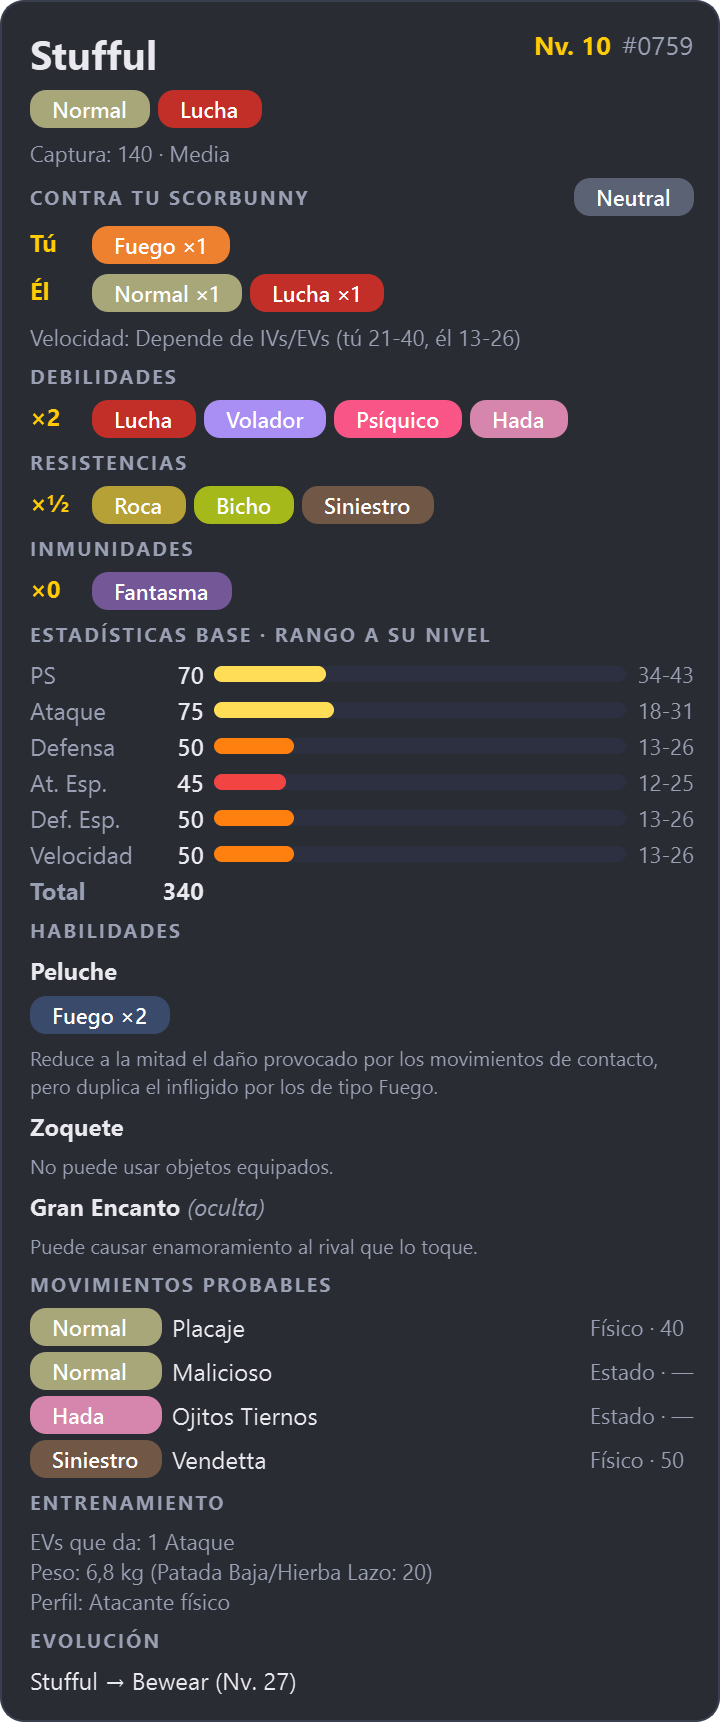
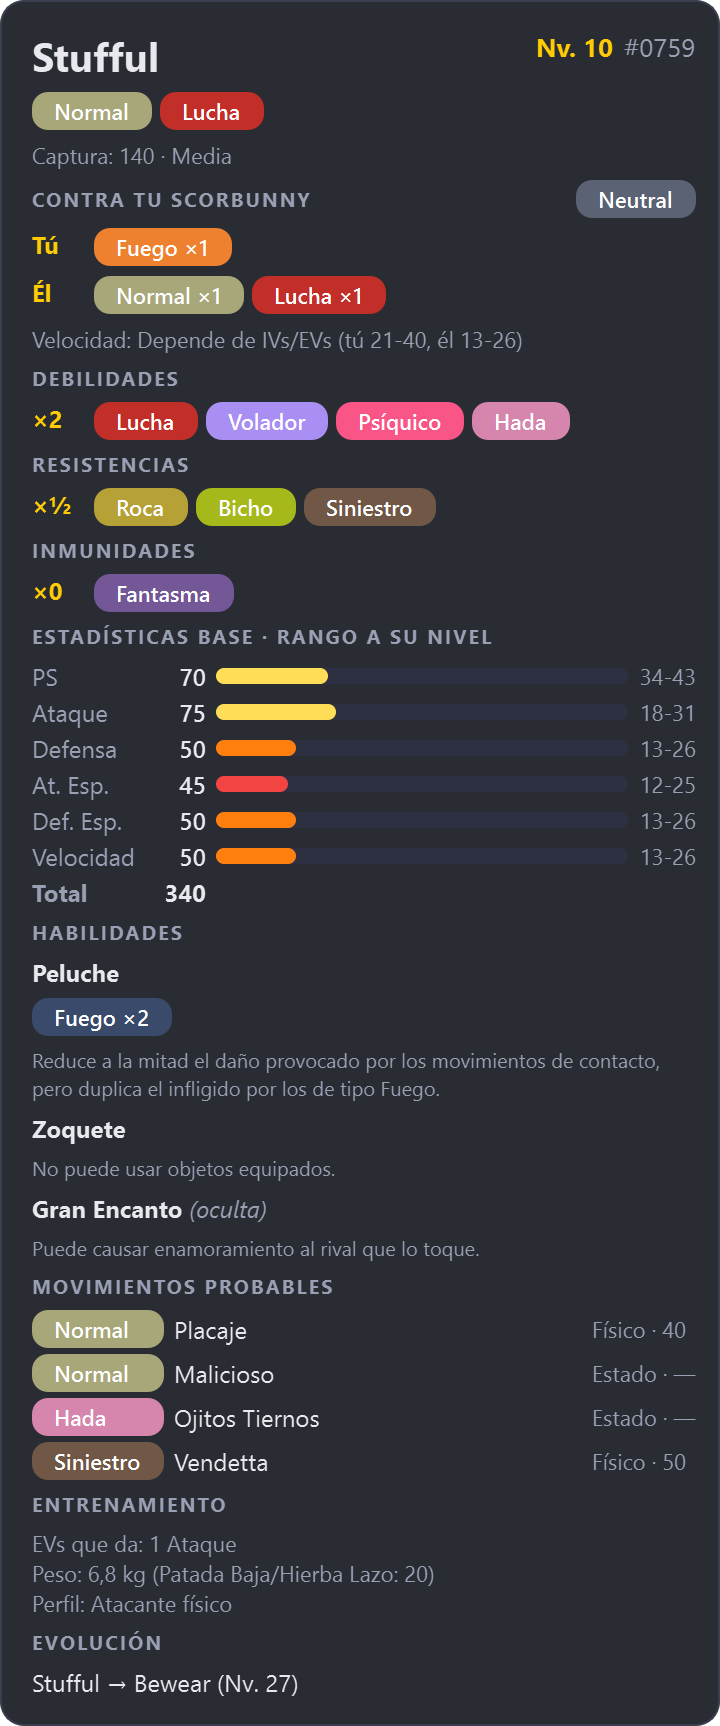
fix: la ficha se ajusta a la pantalla y no recorta textos
Cambio OpenSpec fix-overlay-fit-screen (detectado por la CI en un runner
con pantalla de 720 px):
- Área desplazable cuando la ficha es más alta que la pantalla
- Altura por tarjeta según su ancho; test con escala ×2 en proceso aparte
- Capturas de la web completas y medidas del HTML sincronizadas

diff --git a/site/index.html b/site/index.html
@@ -48,7 +48,7 @@
            data-es="Gratis y de código abierto · Windows 10/11 (64 bits) · Sin permisos de administrador">Free and open source · Windows 10/11 (64-bit) · No admin rights needed</p>
       </div>
       <figure class="hero-shot">
-        <img src="assets/card-normal.png" width="300" height="316"
+        <img src="assets/card-normal.png" width="300" height="318"
              alt="BattleLens card for Stufful: types, catch rate, matchup against your Scorbunny, weaknesses and evolution"
              data-en-alt="BattleLens card for Stufful: types, catch rate, matchup against your Scorbunny, weaknesses and evolution"
              data-es-alt="Ficha de BattleLens de Stufful: tipos, ratio de captura, comparativa contra tu Scorbunny, debilidades y evolución">
@@ -92,7 +92,7 @@
             <li data-en="Weaknesses, immunities and evolution" data-es="Debilidades, inmunidades y evolución">Weaknesses, immunities and evolution</li>
             <li data-en="Advantage / disadvantage against your Pokémon" data-es="Ventaja o desventaja contra tu Pokémon">Advantage / disadvantage against your Pokémon</li>
           </ul>
-          <img src="assets/card-normal.png" width="300" height="316" loading="lazy"
+          <img src="assets/card-normal.png" width="300" height="318" loading="lazy"
                alt="Normal mode card" data-en-alt="Normal mode card" data-es-alt="Ficha en modo Normal">
         </article>
         <article class="mode">
@@ -104,7 +104,7 @@
             <li data-en="Abilities that change matchups (Levitate → Ground ×0)" data-es="Habilidades que cambian la eficacia (Levitación → Tierra ×0)">Abilities that change matchups (Levitate → Ground ×0)</li>
             <li data-en="EV yield, weight for Low Kick, stat profile" data-es="EVs que da, peso para Patada Baja, perfil de estadísticas">EV yield, weight for Low Kick, stat profile</li>
           </ul>
-          <img src="assets/card-competitive.png" width="360" height="861" loading="lazy" class="tall"
+          <img src="assets/card-competitive.png" width="360" height="863" loading="lazy" class="tall"
                alt="Competitive mode card with level, stat ranges, abilities, likely moves and training data"
                data-en-alt="Competitive mode card with level, stat ranges, abilities, likely moves and training data"
                data-es-alt="Ficha en modo Competitivo con nivel, rangos de estadísticas, habilidades, movimientos probables y entrenamiento">
@@ -117,7 +117,7 @@
       <p class="section-lead" data-en="Calibrate your Pokémon's name and the second opponent too: you get one card per opponent and an instant verdict for every turn."
          data-es="Calibra también el nombre de tu Pokémon y el del segundo rival: verás una ficha por rival y un veredicto inmediato en cada turno.">Calibrate your Pokémon's name and the second opponent too: you get one card per opponent and an instant verdict for every turn.</p>
       <figure class="wide-shot">
-        <img src="assets/card-double.png" width="586" height="399" loading="lazy"
+        <img src="assets/card-double.png" width="586" height="401" loading="lazy"
              alt="Double battle: Galarian Zigzagoon and Stufful cards side by side, each compared with your Scorbunny"
              data-en-alt="Double battle: Galarian Zigzagoon and Stufful cards side by side, each compared with your Scorbunny"
              data-es-alt="Combate doble: fichas de Zigzagoon de Galar y Stufful una al lado de la otra, cada una comparada con tu Scorbunny">

diff --git a/src/battlelens/ui/overlay.py b/src/battlelens/ui/overlay.py
@@ -14,6 +14,7 @@ from PyQt6.QtWidgets import (
     QHBoxLayout,
     QLabel,
     QProgressBar,
+    QScrollArea,
     QVBoxLayout,
     QWidget,
 )
@@ -34,6 +35,7 @@ WIDTH = 320  # ancho histórico; cada modo define el suyo en card_width()
 MODE_WIDTHS = {"normal": 300, "competitive": 360}
 CARD_SPACING = 14
 PANEL_PADDING = 14  # margen interior izquierdo/derecho del panel
+SCROLLBAR_WIDTH = 8  # barra de desplazamiento cuando la ficha no cabe en la pantalla
 CATEGORY_LABELS = {"physical": "Físico", "special": "Especial", "status": "Estado"}
 CAPTURE_COLORS = {"Fácil": "#3ddc97", "Media": "#ffcb05", "Difícil": "#ff8c42", "Muy difícil": "#e5484d"}
 ABILITY_EFFECT_COLOR = "#3a4a6b"
@@ -136,9 +138,31 @@ class Overlay(QWidget):
         outer = QVBoxLayout(self)
         outer.setContentsMargins(0, 0, 0, 0)
         outer.addWidget(self._panel)
-        self._content = QVBoxLayout(self._panel)
+        # El contenido va dentro de un área desplazable: si la ficha es más alta que la pantalla
+        # (p. ej. modo Competitivo en una pantalla de 720 px), se limita y se desplaza con la rueda.
+        panel_layout = QVBoxLayout(self._panel)
+        panel_layout.setContentsMargins(1, 1, 1, 1)
+        self._scroll = QScrollArea(self._panel)
+        self._scroll.setWidgetResizable(True)
+        self._scroll.setFrameShape(QFrame.Shape.NoFrame)
+        self._scroll.setHorizontalScrollBarPolicy(Qt.ScrollBarPolicy.ScrollBarAlwaysOff)
+        self._scroll.setVerticalScrollBarPolicy(Qt.ScrollBarPolicy.ScrollBarAsNeeded)
+        self._scroll.setStyleSheet(
+            "QScrollArea, #inner { background: transparent; }"
+            f"QScrollBar:vertical {{ background: transparent; width: {SCROLLBAR_WIDTH}px; margin: 6px 2px 6px 0; }}"
+            "QScrollBar::handle:vertical { background: #4a5268; border-radius: 3px; min-height: 30px; }"
+            "QScrollBar::add-line, QScrollBar::sub-line, QScrollBar::add-page, QScrollBar::sub-page "
+            "{ background: none; height: 0; }"
+        )
+        self._scroll.viewport().setAutoFillBackground(False)
+        self._inner = QWidget()
+        self._inner.setObjectName("inner")
+        self._scroll.setWidget(self._inner)
+        panel_layout.addWidget(self._scroll)
+        self._content = QVBoxLayout(self._inner)
         self._content.setContentsMargins(PANEL_PADDING, 12, PANEL_PADDING, 12)
         self._content.setSpacing(6)
+        self._base_width = card_width(mode)
 
         self._hide_timer = QTimer(self)
         self._hide_timer.setSingleShot(True)
@@ -177,7 +201,7 @@ class Overlay(QWidget):
         # Ancho fijo por tarjeta (descontando los márgenes del panel): así el texto se parte
         # en líneas con el ancho real y no se recorta en los combates dobles.
         inner = card_width(self.mode) - 2 * PANEL_PADDING
-        self.setFixedWidth(inner * len(rivals) + CARD_SPACING * (len(rivals) - 1) + 2 * PANEL_PADDING)
+        self._base_width = inner * len(rivals) + CARD_SPACING * (len(rivals) - 1) + 2 * PANEL_PADDING
         levels = list(rival_levels or []) + [None] * len(rivals)
         row = QHBoxLayout()
         row.setSpacing(CARD_SPACING)
@@ -470,6 +494,7 @@ class Overlay(QWidget):
 
     def show_unrecognized(self, raw_text: str, target_rect: tuple[int, int, int, int] | None) -> None:
         self._clear()
+        self._base_width = card_width(self.mode)
         title = QLabel("No reconocido")
         title.setStyleSheet("font-size:16px; font-weight:700;")
         self._content.addWidget(title)
@@ -499,8 +524,39 @@ class Overlay(QWidget):
 
     # ---- posición y visibilidad -------------------------------------------
 
+    def _available_height(self, target_rect: tuple[int, int, int, int] | None) -> int:
+        point = physical_to_logical(target_rect[0], target_rect[1]) if target_rect else None
+        screen = (QGuiApplication.screenAt(point) if point else None) or QGuiApplication.primaryScreen()
+        return screen.availableGeometry().height() - 2 * MARGIN
+
+    def _chrome(self) -> tuple[int, int]:
+        """Ancho y alto que ocupan el borde del panel y sus márgenes alrededor del área desplazable."""
+        frame = self._panel.contentsMargins()
+        layout = self._panel.layout().contentsMargins()
+        return (frame.left() + frame.right() + layout.left() + layout.right(),
+                frame.top() + frame.bottom() + layout.top() + layout.bottom())
+
+    def _fit_to_screen(self, target_rect: tuple[int, int, int, int] | None) -> None:
+        """Tamaño final: alto del contenido, sin pasar del de la pantalla (con desplazamiento si no cabe)."""
+        chrome_w, chrome_h = self._chrome()
+        inner_width = self._base_width - chrome_w
+        self._inner.setFixedWidth(inner_width)
+        self._content.activate()
+        hint = self._content.totalSizeHint().height()
+        if self._content.hasHeightForWidth():  # textos partidos en líneas (ver show_battle)
+            hint = max(hint, self._content.totalHeightForWidth(inner_width))
+        content_height = hint + chrome_h
+        available = self._available_height(target_rect)
+        scrolling = content_height > available
+        self.setFixedSize(self._base_width + (SCROLLBAR_WIDTH if scrolling else 0), min(content_height, available))
+        self._scroll.verticalScrollBar().setValue(0)
+
+    @property
+    def scrollable(self) -> bool:
+        return self._scroll.verticalScrollBar().maximum() > 0
+
     def _present(self, target_rect: tuple[int, int, int, int] | None) -> None:
-        self.adjustSize()
+        self._fit_to_screen(target_rect)
         self.move(self._position(target_rect))
         self.show()
         if not self._capture_excluded:

diff --git a/tools/make_site_screenshots.py b/tools/make_site_screenshots.py
@@ -9,6 +9,7 @@ para que se vea nítida en pantallas HiDPI.
 from __future__ import annotations
 
 import os
+import re
 import shutil
 import sys
 from pathlib import Path
@@ -25,6 +26,21 @@ SHOTS = [
 ]
 
 
+def sync_html_sizes() -> None:
+    """Actualiza width/height de las capturas en index.html (tamaño lógico = la mitad del PNG)."""
+    from PIL import Image
+
+    index = ROOT / "site" / "index.html"
+    html = index.read_text(encoding="utf-8")
+
+    def fix(match: re.Match) -> str:
+        width, height = Image.open(ASSETS / match.group(1)).size
+        return f'src="assets/{match.group(1)}" width="{width // 2}" height="{height // 2}"'
+
+    html = re.sub(r'src="assets/(card-[a-z-]+\.png)" width="\d+" height="\d+"', fix, html)
+    index.write_text(html, encoding="utf-8")
+
+
 def main() -> int:
     os.environ.setdefault("QT_SCALE_FACTOR", "2")
     sys.path.insert(0, str(ROOT / "src"))
@@ -38,6 +54,7 @@ def main() -> int:
     ASSETS.mkdir(parents=True, exist_ok=True)
     for filename, mode, rivals, own in SHOTS:
         overlay = Overlay(dex, "es", mode=mode)
+        overlay._available_height = lambda rect: 100_000  # captura de la ficha completa, sin desplazamiento
         views = [dex.view(sid, GAME, "es") for sid, _ in rivals]
         own_view = dex.view(own[0], GAME, "es") if own else None
         overlay.show_battle(views, own_view, None, [lvl for _, lvl in rivals], own[1] if own else None)
@@ -46,6 +63,7 @@ def main() -> int:
         overlay.grab().save(str(ASSETS / filename))
         overlay.close()
         print(ASSETS / filename)
+    sync_html_sizes()
     shutil.copy2(ROOT / "src" / "battlelens" / "assets" / "icon.png", ASSETS / "icon.png")
     shutil.copy2(ROOT / "packaging" / "battlelens.ico", ASSETS / "favicon.ico")
     print(ASSETS / "icon.png")

diff --git a/tests/test_ui.py b/tests/test_ui.py
@@ -64,8 +64,12 @@ def test_ventana_no_activa_ni_en_barra_de_tareas(overlay):
     assert overlay.testAttribute(Qt.WidgetAttribute.WA_ShowWithoutActivating)
 
 
-def test_posicion_junto_a_la_ventana(qapp, overlay, dex):
+def test_posicion_junto_a_la_ventana(qapp, dex):
     from PyQt6.QtGui import QGuiApplication
+
+    from battlelens.ui.overlay import Overlay
+
+    overlay = Overlay(dex, "es")  # ficha Normal: cabe en cualquier pantalla, también en la del runner de CI
 
     screen = QGuiApplication.primaryScreen()
     dpr = screen.devicePixelRatio()
@@ -410,3 +414,27 @@ def test_doble_no_recorta_textos_largos(scale):
     env = {**os.environ, "QT_SCALE_FACTOR": scale}
     proc = subprocess.run([sys.executable, "-c", _HIDPI_CHECK], env=env, capture_output=True, text=True, timeout=60)
     assert proc.returncode == 0, proc.stdout + proc.stderr
+
+
+
+def test_ficha_mas_alta_que_la_pantalla_se_desplaza(qapp, dex, monkeypatch):
+    """La ficha competitiva (~860 px) no cabe en una pantalla de 720 px: se limita y se desplaza."""
+    from battlelens.ui.overlay import Overlay
+
+    o = Overlay(dex, "es", mode="competitive")
+    monkeypatch.setattr(o, "_available_height", lambda rect: 500)
+    o.show_species(dex.get_species(759), None, game="sword-shield", level=10)
+    qapp.processEvents()
+    assert o.height() == 500 and o.scrollable
+    assert o.width() > 360  # se reserva sitio para la barra sin recortar la tarjeta
+    o.close()
+
+
+def test_ficha_que_cabe_no_se_desplaza(qapp, dex):
+    from battlelens.ui.overlay import Overlay
+
+    o = Overlay(dex, "es")
+    o.show_species(dex.get_species(759), None)
+    qapp.processEvents()
+    assert not o.scrollable and o.width() == 300
+    o.close()

diff --git a/openspec/specs/battle-overlay/spec.md b/openspec/specs/battle-overlay/spec.md
@@ -42,7 +42,7 @@ WHEN un reconocimiento identifica al menos a un rival, el sistema SHALL mostrar 
 - **THEN** la tarjeta muestra «Captura: 140 · Media», la evolución «Stufful → Bewear (Nv. 27)» y, al pasar el ratón por «Peluche», su descripción
 
 ### Requirement: Comportamiento de la ventana
-El overlay SHALL estar siempre por encima del resto de ventanas, sin marco, MUST NOT robar el foco del teclado al emulador y MUST NOT aparecer en la barra de tareas. Se SHALL posicionar por defecto junto al borde derecho de la ventana objetivo, o dentro de la pantalla si no cabe, y MUST recordar la posición si el usuario lo arrastra.
+El overlay SHALL estar siempre por encima del resto de ventanas, sin marco, MUST NOT robar el foco del teclado al emulador y MUST NOT aparecer en la barra de tareas. Se SHALL posicionar por defecto junto al borde derecho de la ventana objetivo, o dentro de la pantalla si no cabe, y MUST recordar la posición si el usuario lo arrastra. El overlay MUST caber en la pantalla: si su contenido es más alto que la altura disponible, se limita a esa altura y el contenido se desplaza con la rueda del ratón. Las tarjetas MUST reservar la altura que necesitan sus textos partidos en líneas, también con escalado de pantalla alto.
 
 #### Scenario: Foco preservado
 - **WHEN** el overlay aparece mientras el usuario juega
@@ -51,6 +51,14 @@ El overlay SHALL estar siempre por encima del resto de ventanas, sin marco, MUST
 #### Scenario: Emulador a pantalla completa en el borde
 - **WHEN** la ventana objetivo ocupa toda la pantalla
 - **THEN** el overlay se coloca dentro de la pantalla, en la esquina superior derecha
+
+#### Scenario: Pantalla pequeña
+- **WHEN** la ficha competitiva (~860 px) se muestra en una pantalla con 720 px de alto disponibles
+- **THEN** el overlay mide como máximo esa altura y su contenido se puede desplazar con la rueda
+
+#### Scenario: Escalado alto en combates dobles
+- **WHEN** Windows usa un escalado del 200 % y se muestra un combate doble con una evolución larga
+- **THEN** ningún texto de las tarjetas queda recortado
 
 ### Requirement: Ocultación del overlay
 El sistema SHALL ocultar el overlay al pulsar el atajo de ocultar, al hacer clic en él o, si está configurado, tras un tiempo (por defecto desactivado). Un nuevo reconocimiento MUST reemplazar el contenido del overlay visible.

diff --git a/openspec/changes/archive/2026-10-13-fix-overlay-fit-screen/specs/battle-overlay/spec.md b/openspec/changes/archive/2026-10-13-fix-overlay-fit-screen/specs/battle-overlay/spec.md
@@ -1,0 +1,20 @@
+## MODIFIED Requirements
+
+### Requirement: Comportamiento de la ventana
+El overlay SHALL estar siempre por encima del resto de ventanas, sin marco, MUST NOT robar el foco del teclado al emulador y MUST NOT aparecer en la barra de tareas. Se SHALL posicionar por defecto junto al borde derecho de la ventana objetivo, o dentro de la pantalla si no cabe, y MUST recordar la posición si el usuario lo arrastra. El overlay MUST caber en la pantalla: si su contenido es más alto que la altura disponible, se limita a esa altura y el contenido se desplaza con la rueda del ratón. Las tarjetas MUST reservar la altura que necesitan sus textos partidos en líneas, también con escalado de pantalla alto.
+
+#### Scenario: Foco preservado
+- **WHEN** el overlay aparece mientras el usuario juega
+- **THEN** las pulsaciones de teclado siguen llegando al emulador
+
+#### Scenario: Emulador a pantalla completa en el borde
+- **WHEN** la ventana objetivo ocupa toda la pantalla
+- **THEN** el overlay se coloca dentro de la pantalla, en la esquina superior derecha
+
+#### Scenario: Pantalla pequeña
+- **WHEN** la ficha competitiva (~860 px) se muestra en una pantalla con 720 px de alto disponibles
+- **THEN** el overlay mide como máximo esa altura y su contenido se puede desplazar con la rueda
+
+#### Scenario: Escalado alto en combates dobles
+- **WHEN** Windows usa un escalado del 200 % y se muestra un combate doble con una evolución larga
+- **THEN** ningún texto de las tarjetas queda recortado

diff --git a/openspec/changes/archive/2026-10-13-fix-overlay-fit-screen/design.md b/openspec/changes/archive/2026-10-13-fix-overlay-fit-screen/design.md
@@ -1,0 +1,30 @@
+## Context
+
+Qt no aplica `heightForWidth` al calcular el tamaño de una ventana de nivel superior, y con escalados altos las etiquetas que se parten en líneas necesitan más alto que el que la ventana les daba.
+
+## Goals / Non-Goals
+
+**Goals:** ninguna ficha recortada y ninguna ficha más alta que la pantalla. **Non-Goals:** rediseñar el contenido del modo Competitivo.
+
+## Decisions
+
+### D1. Altura mínima por tarjeta
+Tras construir cada tarjeta con ancho fijo, `setMinimumHeight(layout.totalHeightForWidth(ancho))`.
+
+### D2. Área desplazable dentro del panel
+`QScrollArea` sin marco, con barra vertical solo cuando hace falta (8 px, sin flechas). El tamaño final es `min(alto del contenido, alto disponible de la pantalla − márgenes)`. Si hay desplazamiento, el ancho crece lo que mide la barra, para no recortar la tarjeta. Los bordes y márgenes del panel se leen de los widgets, no se fijan a mano.
+
+### D3. Test con escala ×2 en un proceso aparte
+El fallo de recorte solo se reproduce con escalado alto, así que el test lanza un proceso con `QT_SCALE_FACTOR=2`. Se comprobó que falla sin el arreglo y pasa con él.
+
+## Risks / Trade-offs
+
+- [Desplazar en lugar de ver todo de un vistazo en pantallas pequeñas] → Solo afecta al modo Competitivo en pantallas de menos de unos 880 px de alto. El modo Normal (~320 px) siempre cabe.
+
+## Migration Plan
+
+Ninguna.
+
+## Open Questions
+
+Ninguna.

diff --git a/openspec/changes/archive/2026-10-13-fix-overlay-fit-screen/proposal.md b/openspec/changes/archive/2026-10-13-fix-overlay-fit-screen/proposal.md
@@ -1,0 +1,20 @@
+## Why
+
+Al publicar la web y ejecutar la CI salieron dos fallos de la ficha: con escalado de pantalla alto, los textos largos se recortaban en los combates dobles; y, una vez corregido eso, la ficha competitiva (~860 px) no cabía en pantallas de 720-768 px de alto (la del runner de GitHub y muchos portátiles).
+
+## What Changes
+
+- Cada tarjeta reserva la altura que necesita para su ancho (textos partidos en líneas).
+- El overlay se limita a la altura disponible de la pantalla y su contenido se desplaza con la rueda del ratón, con una barra fina que no recorta la tarjeta.
+
+## Capabilities
+
+### New Capabilities
+<!-- Ninguna. -->
+
+### Modified Capabilities
+- `battle-overlay`: el comportamiento de la ventana incluye ajustarse a la pantalla y no recortar textos.
+
+## Impact
+
+- `ui/overlay.py` (área desplazable y cálculo de tamaño), tests de UI (incluido uno en un proceso con escala ×2) y `tools/make_site_screenshots.py` (capturas sin límite de altura y medidas del HTML sincronizadas).

diff --git a/openspec/changes/archive/2026-10-13-fix-overlay-fit-screen/tasks.md b/openspec/changes/archive/2026-10-13-fix-overlay-fit-screen/tasks.md
@@ -1,0 +1,6 @@
+## 1. Implementación
+
+- [x] 1.1 Altura mínima por tarjeta según su ancho (D1)
+- [x] 1.2 Área desplazable y ajuste a la pantalla (D2)
+- [x] 1.3 Tests: dobles con escala ×1 y ×2 en proceso aparte (D3), ficha más alta que la pantalla, ficha que cabe sin barra; posición probada con la ficha Normal
+- [x] 1.4 Capturas de la web sin límite de altura y medidas del HTML sincronizadas por el script

diff --git a/CHANGELOG.md b/CHANGELOG.md
@@ -27,6 +27,7 @@ Formato basado en [Keep a Changelog](https://keepachangelog.com/es-ES/1.1.0/); v
 
 ### Corregido
 - En combates dobles con escalado de pantalla alto (150-200 %), los textos largos de la ficha se recortaban.
+- La ficha competitiva no cabía en pantallas de 720-768 px de alto: ahora se ajusta a la pantalla y se desplaza con la rueda.
 
 ## [0.1.0] - 2026-10-13
 
